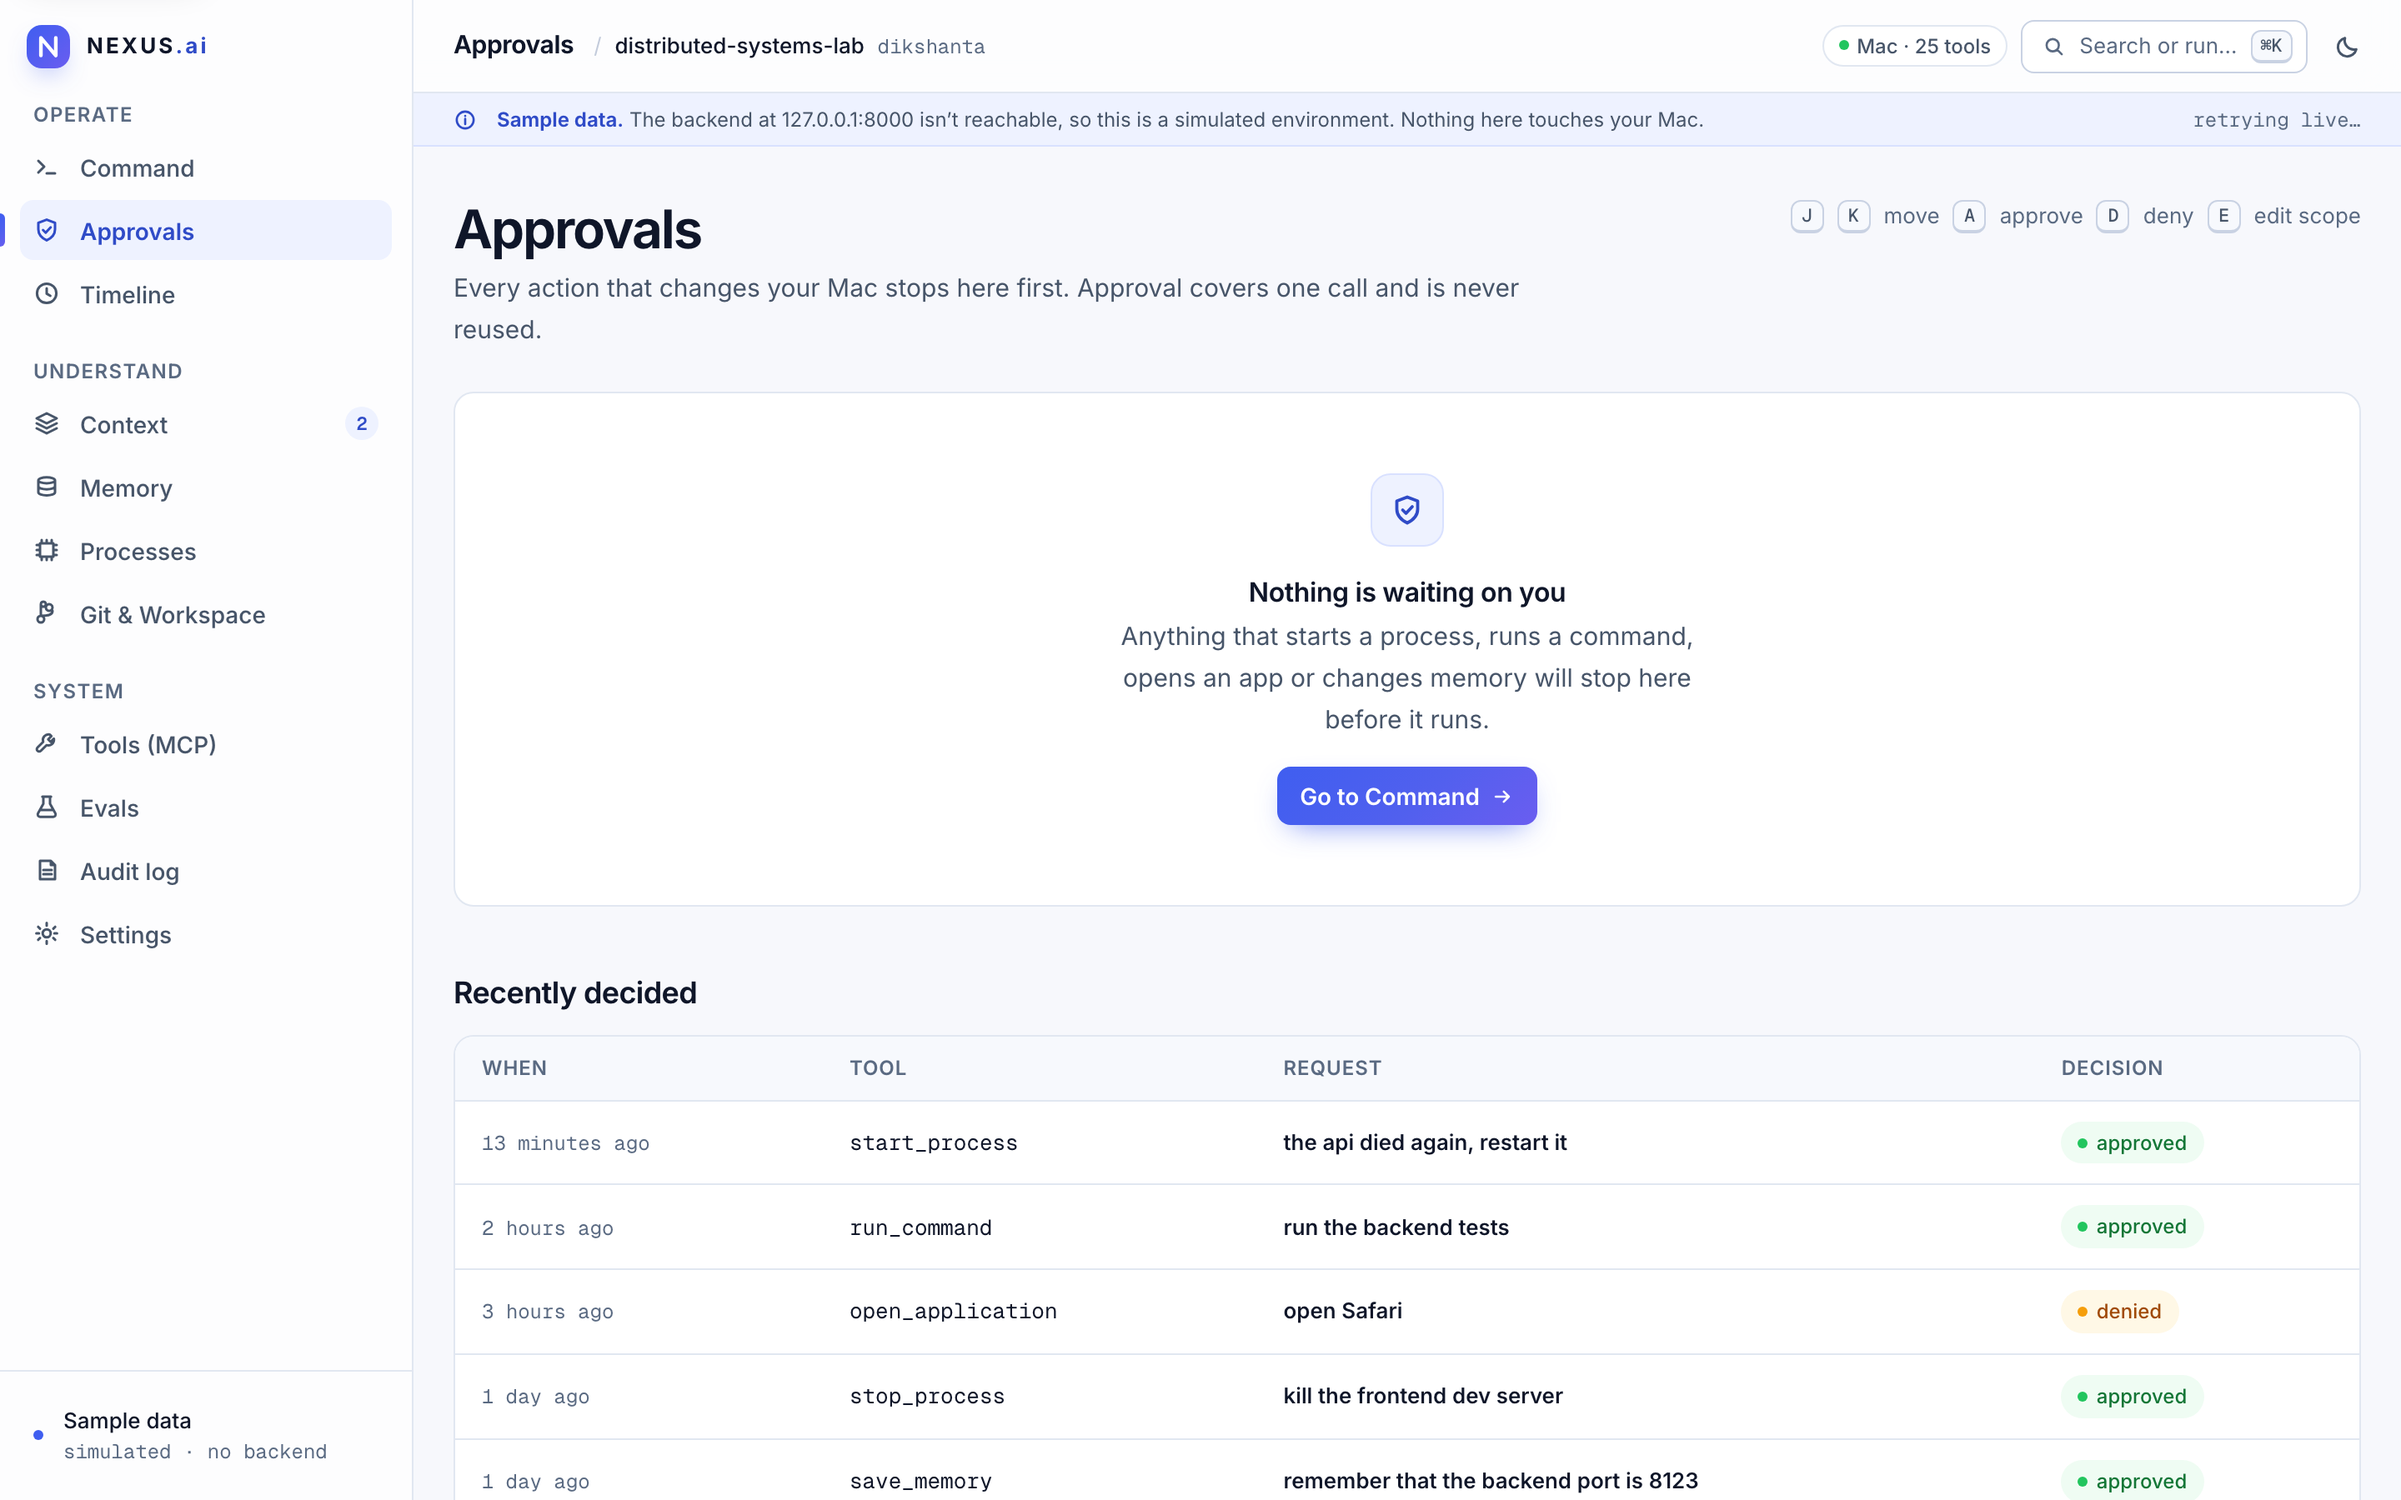
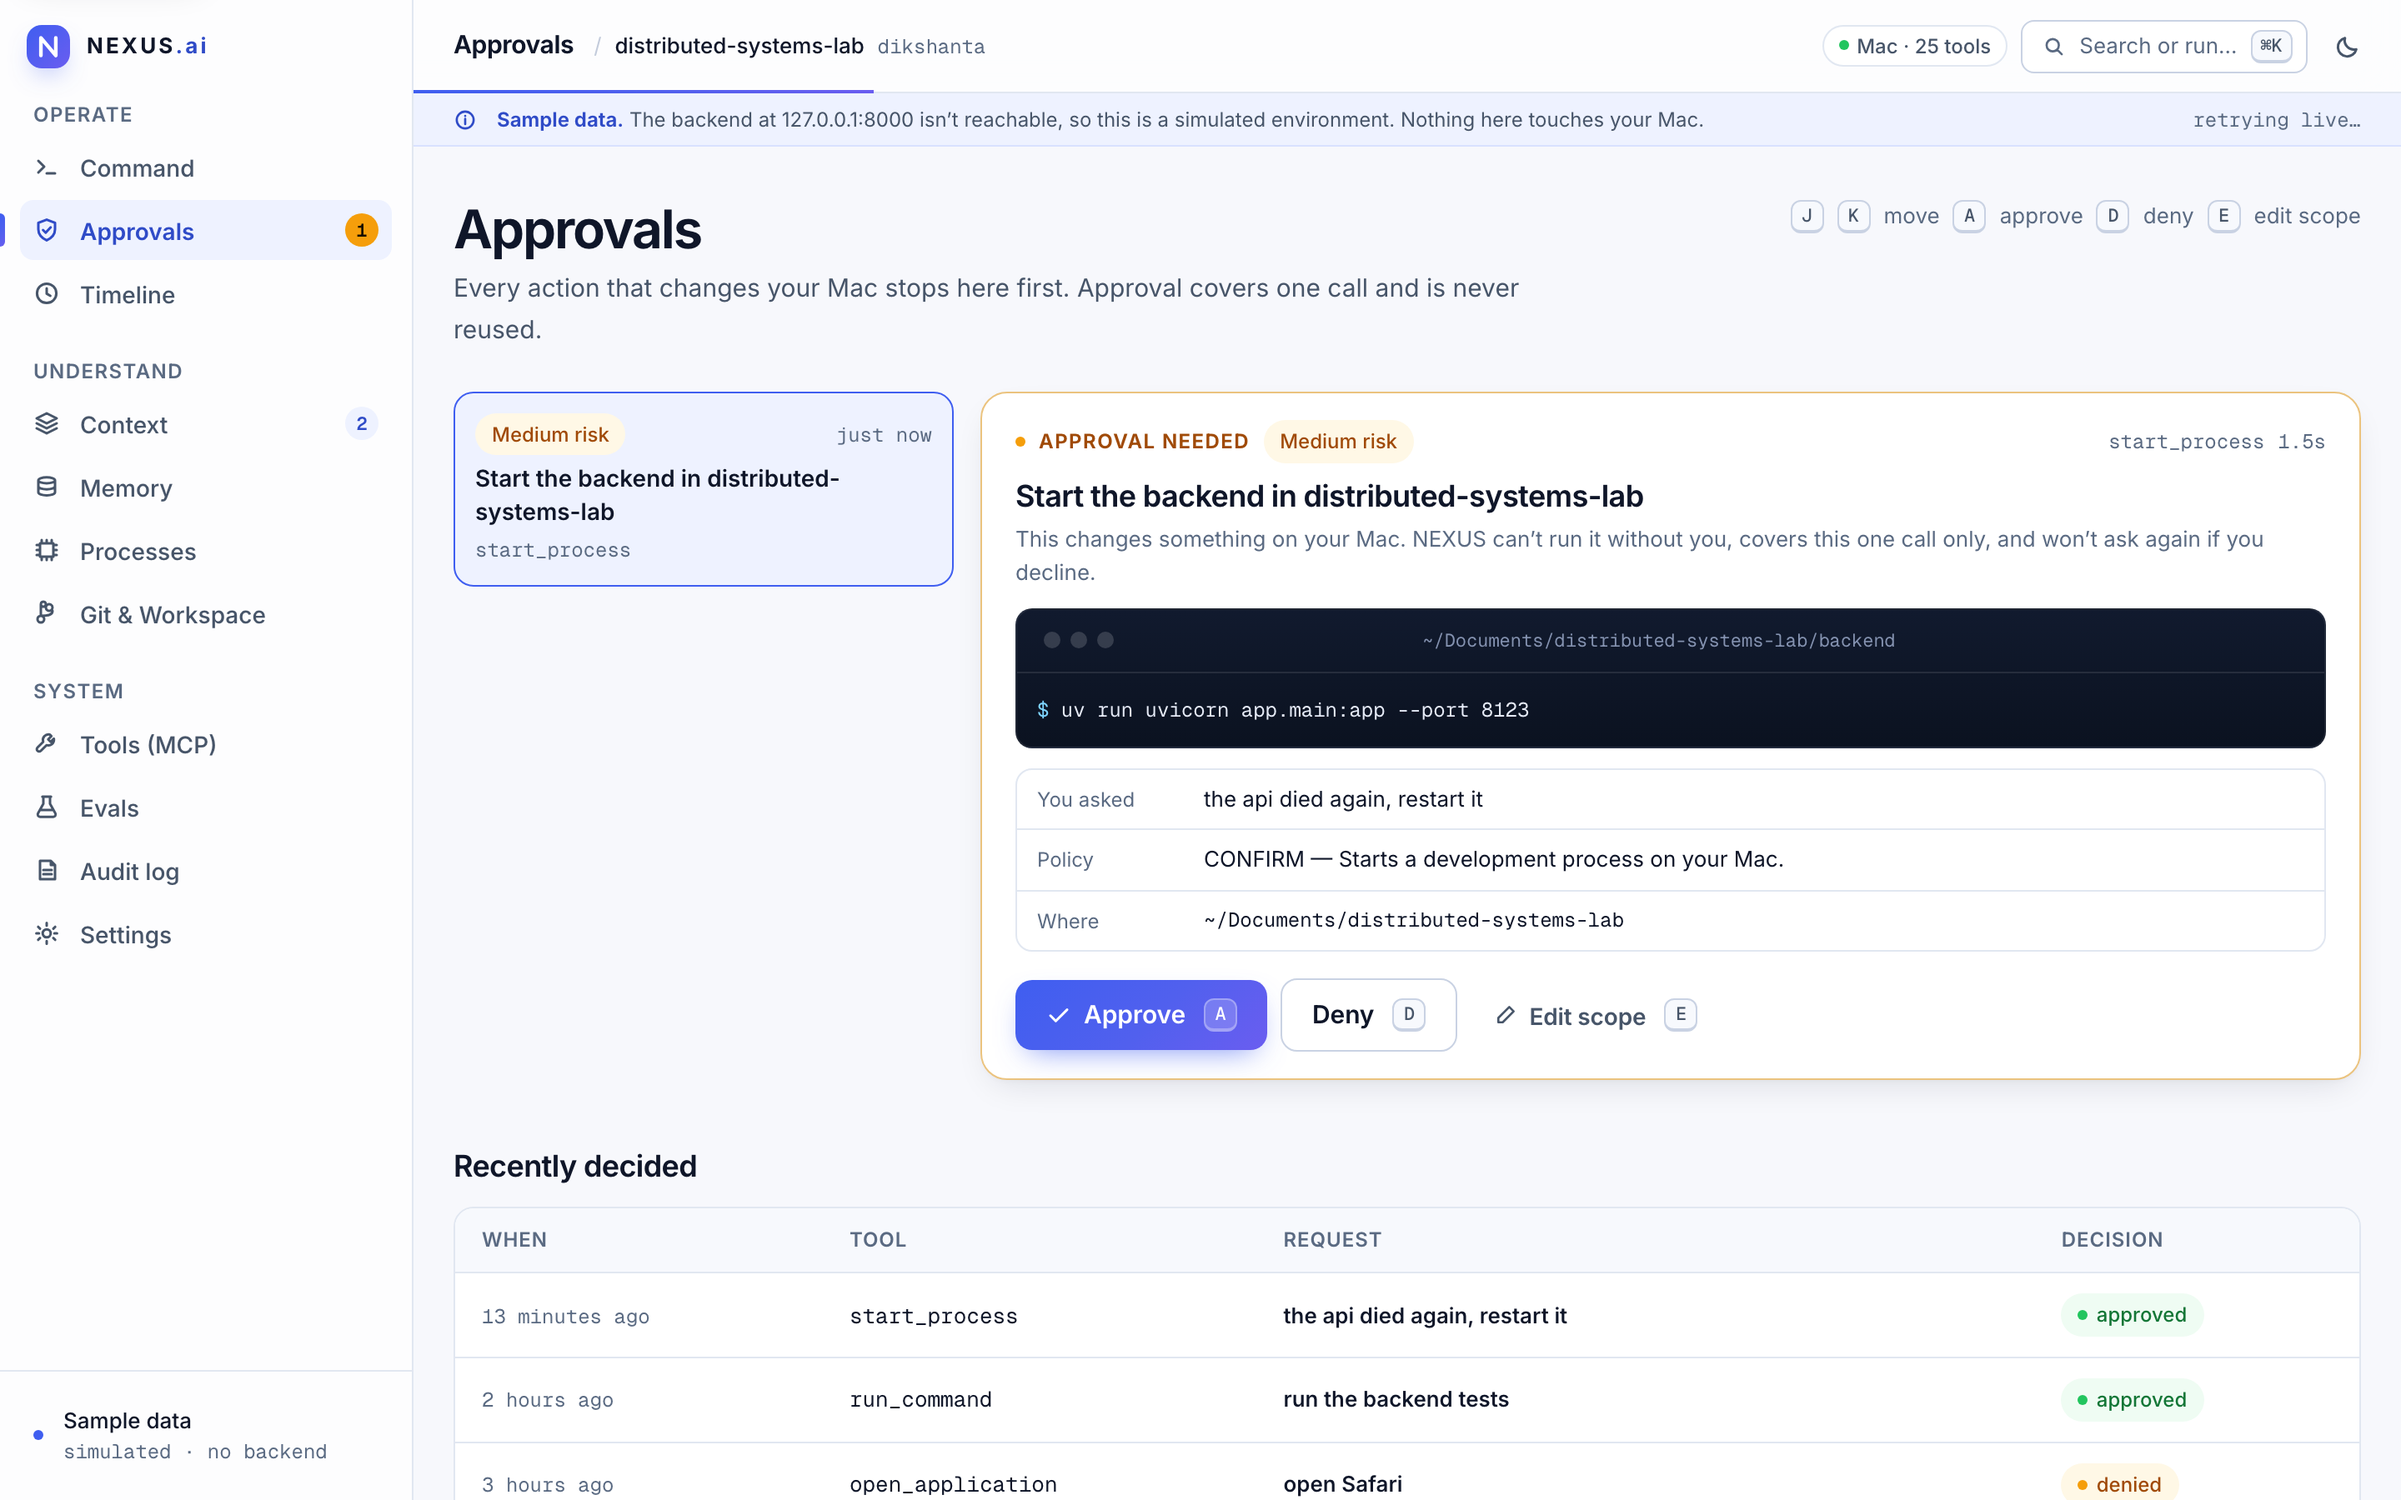
Readme updated

diff --git a/README.md b/README.md
@@ -56,6 +56,11 @@ Approval covers one call and is never reused.
 
 <img src="docs/images/flow-1-approval-gate.png" alt="A pending approval showing the exact command to be run" width="900">
 
+Pending calls also collect in the **Approvals** inbox, where you can approve,
+deny or narrow the scope from the keyboard (`A`, `D`, `E`).
+
+<img src="docs/images/dashboard-approvals.png" alt="The approvals inbox with a pending call and recent decisions" width="900">
+
 ### 3. It checks its own work
 
 `SUCCESS` needs evidence, not a tool return. After the action NEXUS re-checks
@@ -63,14 +68,25 @@ with SAFE-only tools and reports what it actually observed.
 
 <img src="docs/images/flow-2-verified-outcome.png" alt="A verified outcome with observed process status and an HTTP 200" width="900">
 
-### 4. It remembers, and admits when memory is stale
+### 4. Every run can be opened and explained
+
+Open any request to see the nine pipeline stages, what NEXUS knew before it
+acted, and what it verified afterwards — recorded decisions and evidence, never
+hidden reasoning.
+
+<img src="docs/images/dashboard-run-detail.png" alt="A run detail drawer with the pipeline, before and after evidence" width="900">
+
+### 5. It remembers, and admits when memory is stale
 
 Typed, confidence-scored facts live in SQLite and are marked `outdated` the
-moment live evidence disagrees.
+moment live evidence disagrees. Saving or forgetting a fact is itself a
+`CONFIRM` action.
 
 <img src="docs/images/dashboard-memory.png" alt="The memory view listing facts with confidence and verification state" width="900">
 
-### 5. It shows its receipts
+<img src="docs/images/dashboard-memory-detail.png" alt="A memory detail drawer showing an outdated fact and the live evidence against it" width="900">
+
+### 6. It shows its receipts
 
 Every request lands in a timeline and an exportable audit log — what was asked,
 which tier it ran at, and what the decision was.
@@ -82,16 +98,25 @@ which tier it ran at, and what the decision was.
   </tr>
 </table>
 
-### 6. It is measured, not claimed
+### 7. It is measured, not claimed
 
 An external eval harness drives the live backend, scores each case
 deterministically, repeats trials to catch flaky behaviour, diffs against a
-baseline, and exports JUnit for CI. See [`evals/`](evals/README.md).
+baseline, and exports JUnit for CI. The Evals page reads the harness's result
+files directly — the run below is a real local run, including the case that
+still fails. See [`evals/`](evals/README.md).
 
-<img src="docs/images/landing-eval-harness.png" alt="The eval harness section of the landing page" width="900">
+<img src="docs/images/dashboard-evals.png" alt="The Evals page with pass rate, quality by run, score breakdown and diff against a baseline" width="900">
+
+### 8. Keyboard first
+
+`⌘K` jumps to any page, reopens a recent run, or sends text to the agent — and
+says plainly that nothing runs without your approval.
+
+<img src="docs/images/command-palette.png" alt="The command palette searching for git" width="900">
 
 <details>
-<summary><strong>More views</strong> — context, processes, Git, tools, settings</summary>
+<summary><strong>More views</strong> — context, processes, Git, tools, settings, pipeline</summary>
 
 <br>
 
@@ -105,8 +130,8 @@ baseline, and exports JUnit for CI. See [`evals/`](evals/README.md).
     <td width="50%"><img src="docs/images/dashboard-tools.png" alt="MCP tools view" width="440"></td>
   </tr>
   <tr>
-    <td width="50%"><img src="docs/images/dashboard-approvals.png" alt="Approvals inbox" width="440"></td>
     <td width="50%"><img src="docs/images/dashboard-settings.png" alt="Settings view" width="440"></td>
+    <td width="50%"><img src="docs/images/landing-how-it-works.png" alt="The nine-stage request pipeline" width="440"></td>
   </tr>
 </table>
 

diff --git a/docs/README.md b/docs/README.md
@@ -1,6 +1,6 @@
 # NEXUS.ai — screenshot gallery
 
-All images are 2× captures of the real frontend (1440 px desktop, 390 px phone) in the light theme. Dashboard images come from the built-in **sample-data mode**, a simulated environment labelled in the app; nothing in them touches a real Mac.
+All images are 2× captures of the real frontend (1440 px desktop, 390 px phone) in the light theme. Dashboard images come from the built-in **sample-data mode**, a simulated environment labelled in the app; nothing in them touches a real Mac. The Evals page shows real local result files.
 
 
 ## Landing page
@@ -63,6 +63,10 @@ All images are 2× captures of the real frontend (1440 px desktop, 390 px phone)
 
 <img src="images/dashboard-context.png" alt="Dashboard · Context" width="900">
 
+### Dashboard · Evals
+
+<img src="images/dashboard-evals.png" alt="Dashboard · Evals" width="900">
+
 ### Dashboard · Git & Workspace
 
 <img src="images/dashboard-git-workspace.png" alt="Dashboard · Git & Workspace" width="900">
@@ -71,9 +75,17 @@ All images are 2× captures of the real frontend (1440 px desktop, 390 px phone)
 
 <img src="images/dashboard-memory.png" alt="Dashboard · Memory" width="900">
 
+### Dashboard · Memory Detail
+
+<img src="images/dashboard-memory-detail.png" alt="Dashboard · Memory Detail" width="900">
+
 ### Dashboard · Processes
 
 <img src="images/dashboard-processes.png" alt="Dashboard · Processes" width="900">
+
+### Dashboard · Run Detail
+
+<img src="images/dashboard-run-detail.png" alt="Dashboard · Run Detail" width="900">
 
 ### Dashboard · Settings
 
@@ -86,6 +98,13 @@ All images are 2× captures of the real frontend (1440 px desktop, 390 px phone)
 ### Dashboard · Tools
 
 <img src="images/dashboard-tools.png" alt="Dashboard · Tools" width="900">
+
+
+## Keyboard
+
+### Command Palette
+
+<img src="images/command-palette.png" alt="Command Palette" width="900">
 
 
 ## Phone (390 px)
